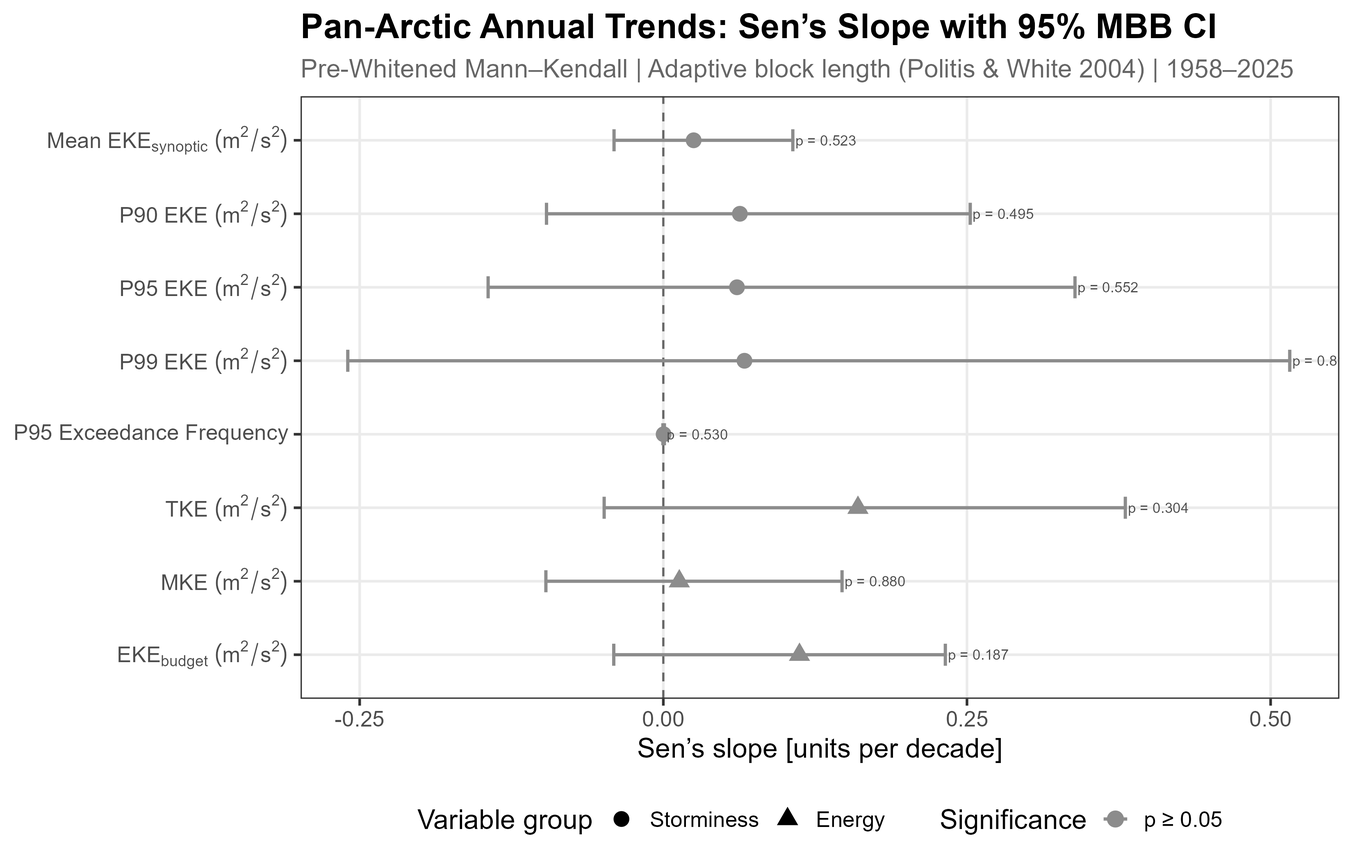
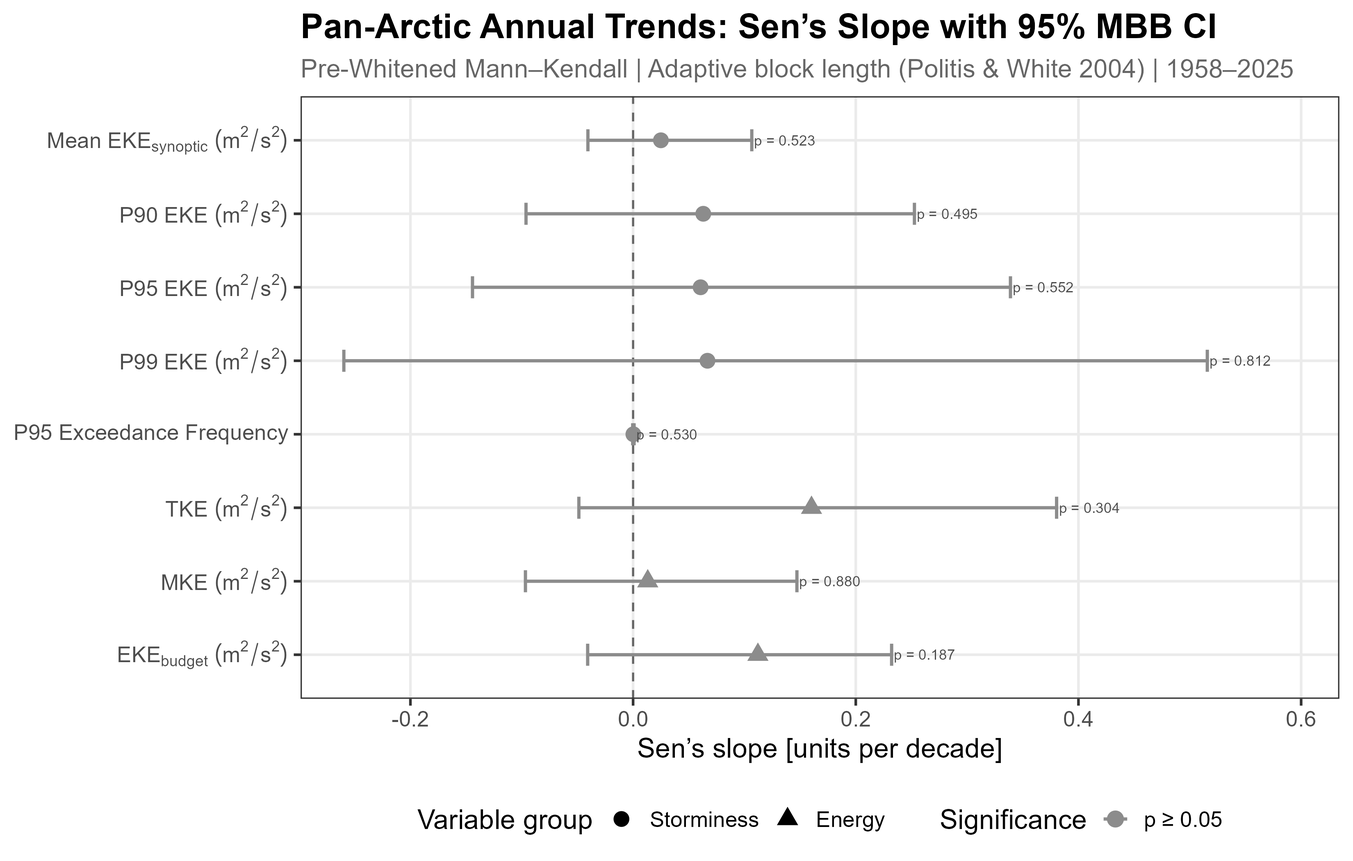
forest plot corrections

diff --git a/Storminess_analysis_full_framework.html b/Storminess_analysis_full_framework.html
@@ -4273,35 +4273,36 @@ Significant trends (α = 0.05):  storminess 0/5  |  energy 0/3</code></pre>
 <span id="cb438-100"><a href="#cb438-100" aria-hidden="true" tabindex="-1"></a>    <span class="at">values =</span> <span class="fu">c</span>(<span class="st">"Storminess"</span> <span class="ot">=</span> <span class="dv">16</span>, <span class="st">"Energy"</span> <span class="ot">=</span> <span class="dv">17</span>),</span>
 <span id="cb438-101"><a href="#cb438-101" aria-hidden="true" tabindex="-1"></a>    <span class="at">name   =</span> <span class="st">"Variable group"</span></span>
 <span id="cb438-102"><a href="#cb438-102" aria-hidden="true" tabindex="-1"></a>  ) <span class="sc">+</span></span>
-<span id="cb438-103"><a href="#cb438-103" aria-hidden="true" tabindex="-1"></a>  <span class="fu">labs</span>(</span>
-<span id="cb438-104"><a href="#cb438-104" aria-hidden="true" tabindex="-1"></a>    <span class="at">title    =</span> <span class="st">"Pan-Arctic Annual Trends: Sen\u2019s Slope with 95% MBB CI"</span>,</span>
-<span id="cb438-105"><a href="#cb438-105" aria-hidden="true" tabindex="-1"></a>    <span class="at">subtitle =</span> <span class="fu">glue</span>(</span>
-<span id="cb438-106"><a href="#cb438-106" aria-hidden="true" tabindex="-1"></a>      <span class="st">"Pre-Whitened Mann\u2013Kendall | Adaptive block length "</span>,</span>
-<span id="cb438-107"><a href="#cb438-107" aria-hidden="true" tabindex="-1"></a>      <span class="st">"(Politis &amp; White 2004) | {min(annual_df$year)}\u2013{max(annual_df$year)}"</span></span>
-<span id="cb438-108"><a href="#cb438-108" aria-hidden="true" tabindex="-1"></a>    ),</span>
-<span id="cb438-109"><a href="#cb438-109" aria-hidden="true" tabindex="-1"></a>    <span class="at">x =</span> <span class="st">"Sen\u2019s slope [units per decade]"</span>,</span>
-<span id="cb438-110"><a href="#cb438-110" aria-hidden="true" tabindex="-1"></a>    <span class="at">y =</span> <span class="cn">NULL</span></span>
-<span id="cb438-111"><a href="#cb438-111" aria-hidden="true" tabindex="-1"></a>  ) <span class="sc">+</span></span>
-<span id="cb438-112"><a href="#cb438-112" aria-hidden="true" tabindex="-1"></a>  <span class="fu">theme_bw</span>(<span class="at">base_size =</span> BASE_SIZE) <span class="sc">+</span></span>
-<span id="cb438-113"><a href="#cb438-113" aria-hidden="true" tabindex="-1"></a>  <span class="fu">theme</span>(</span>
-<span id="cb438-114"><a href="#cb438-114" aria-hidden="true" tabindex="-1"></a>    <span class="at">plot.title       =</span> <span class="fu">element_text</span>(<span class="at">face =</span> <span class="st">"bold"</span>, <span class="at">size =</span> TITLE_SIZE),</span>
-<span id="cb438-115"><a href="#cb438-115" aria-hidden="true" tabindex="-1"></a>    <span class="at">plot.subtitle    =</span> <span class="fu">element_text</span>(<span class="at">size =</span> SUBTITLE_SIZE, <span class="at">colour =</span> <span class="st">"grey40"</span>),</span>
-<span id="cb438-116"><a href="#cb438-116" aria-hidden="true" tabindex="-1"></a>    <span class="at">legend.position  =</span> <span class="st">"bottom"</span>,</span>
-<span id="cb438-117"><a href="#cb438-117" aria-hidden="true" tabindex="-1"></a>    <span class="at">panel.grid.minor =</span> <span class="fu">element_blank</span>()</span>
-<span id="cb438-118"><a href="#cb438-118" aria-hidden="true" tabindex="-1"></a>  ) <span class="sc">+</span></span>
-<span id="cb438-119"><a href="#cb438-119" aria-hidden="true" tabindex="-1"></a>  <span class="fu">scale_y_discrete</span>(</span>
-<span id="cb438-120"><a href="#cb438-120" aria-hidden="true" tabindex="-1"></a>    <span class="at">labels =</span> <span class="cf">function</span>(x) <span class="fu">parse</span>(<span class="at">text =</span> x)   <span class="co"># parse plotmath on the fly</span></span>
-<span id="cb438-121"><a href="#cb438-121" aria-hidden="true" tabindex="-1"></a>  )</span>
-<span id="cb438-122"><a href="#cb438-122" aria-hidden="true" tabindex="-1"></a></span>
-<span id="cb438-123"><a href="#cb438-123" aria-hidden="true" tabindex="-1"></a><span class="fu">ggsave</span>(<span class="fu">file.path</span>(FIG_PHASE3, <span class="st">"Fig3.2_Annual_Forest.png"</span>),</span>
-<span id="cb438-124"><a href="#cb438-124" aria-hidden="true" tabindex="-1"></a>       p_forest, <span class="at">width =</span> <span class="dv">11</span>, <span class="at">height =</span> <span class="dv">7</span>, <span class="at">dpi =</span> <span class="dv">300</span>)</span>
-<span id="cb438-125"><a href="#cb438-125" aria-hidden="true" tabindex="-1"></a></span>
+<span id="cb438-103"><a href="#cb438-103" aria-hidden="true" tabindex="-1"></a>  <span class="fu">scale_x_continuous</span>(<span class="at">expand =</span> <span class="fu">expansion</span>(<span class="at">mult =</span> <span class="fu">c</span>(<span class="fl">0.05</span>, <span class="fl">0.15</span>))) <span class="sc">+</span></span>
+<span id="cb438-104"><a href="#cb438-104" aria-hidden="true" tabindex="-1"></a>  <span class="fu">labs</span>(</span>
+<span id="cb438-105"><a href="#cb438-105" aria-hidden="true" tabindex="-1"></a>    <span class="at">title    =</span> <span class="st">"Pan-Arctic Annual Trends: Sen\u2019s Slope with 95% MBB CI"</span>,</span>
+<span id="cb438-106"><a href="#cb438-106" aria-hidden="true" tabindex="-1"></a>    <span class="at">subtitle =</span> <span class="fu">glue</span>(</span>
+<span id="cb438-107"><a href="#cb438-107" aria-hidden="true" tabindex="-1"></a>      <span class="st">"Pre-Whitened Mann\u2013Kendall | Adaptive block length "</span>,</span>
+<span id="cb438-108"><a href="#cb438-108" aria-hidden="true" tabindex="-1"></a>      <span class="st">"(Politis &amp; White 2004) | {min(annual_df$year)}\u2013{max(annual_df$year)}"</span></span>
+<span id="cb438-109"><a href="#cb438-109" aria-hidden="true" tabindex="-1"></a>    ),</span>
+<span id="cb438-110"><a href="#cb438-110" aria-hidden="true" tabindex="-1"></a>    <span class="at">x =</span> <span class="st">"Sen\u2019s slope [units per decade]"</span>,</span>
+<span id="cb438-111"><a href="#cb438-111" aria-hidden="true" tabindex="-1"></a>    <span class="at">y =</span> <span class="cn">NULL</span></span>
+<span id="cb438-112"><a href="#cb438-112" aria-hidden="true" tabindex="-1"></a>  ) <span class="sc">+</span></span>
+<span id="cb438-113"><a href="#cb438-113" aria-hidden="true" tabindex="-1"></a>  <span class="fu">theme_bw</span>(<span class="at">base_size =</span> BASE_SIZE) <span class="sc">+</span></span>
+<span id="cb438-114"><a href="#cb438-114" aria-hidden="true" tabindex="-1"></a>  <span class="fu">theme</span>(</span>
+<span id="cb438-115"><a href="#cb438-115" aria-hidden="true" tabindex="-1"></a>    <span class="at">plot.title       =</span> <span class="fu">element_text</span>(<span class="at">face =</span> <span class="st">"bold"</span>, <span class="at">size =</span> TITLE_SIZE),</span>
+<span id="cb438-116"><a href="#cb438-116" aria-hidden="true" tabindex="-1"></a>    <span class="at">plot.subtitle    =</span> <span class="fu">element_text</span>(<span class="at">size =</span> SUBTITLE_SIZE, <span class="at">colour =</span> <span class="st">"grey40"</span>),</span>
+<span id="cb438-117"><a href="#cb438-117" aria-hidden="true" tabindex="-1"></a>    <span class="at">legend.position  =</span> <span class="st">"bottom"</span>,</span>
+<span id="cb438-118"><a href="#cb438-118" aria-hidden="true" tabindex="-1"></a>    <span class="at">panel.grid.minor =</span> <span class="fu">element_blank</span>()</span>
+<span id="cb438-119"><a href="#cb438-119" aria-hidden="true" tabindex="-1"></a>  ) <span class="sc">+</span></span>
+<span id="cb438-120"><a href="#cb438-120" aria-hidden="true" tabindex="-1"></a>  <span class="fu">scale_y_discrete</span>(</span>
+<span id="cb438-121"><a href="#cb438-121" aria-hidden="true" tabindex="-1"></a>    <span class="at">labels =</span> <span class="cf">function</span>(x) <span class="fu">parse</span>(<span class="at">text =</span> x)   <span class="co"># parse plotmath on the fly</span></span>
+<span id="cb438-122"><a href="#cb438-122" aria-hidden="true" tabindex="-1"></a>  )</span>
+<span id="cb438-123"><a href="#cb438-123" aria-hidden="true" tabindex="-1"></a></span>
+<span id="cb438-124"><a href="#cb438-124" aria-hidden="true" tabindex="-1"></a><span class="fu">ggsave</span>(<span class="fu">file.path</span>(FIG_PHASE3, <span class="st">"Fig3.2_Annual_Forest.png"</span>),</span>
+<span id="cb438-125"><a href="#cb438-125" aria-hidden="true" tabindex="-1"></a>       p_forest, <span class="at">width =</span> <span class="dv">11</span>, <span class="at">height =</span> <span class="dv">7</span>, <span class="at">dpi =</span> <span class="dv">300</span>)</span>
 <span id="cb438-126"><a href="#cb438-126" aria-hidden="true" tabindex="-1"></a></span>
-<span id="cb438-127"><a href="#cb438-127" aria-hidden="true" tabindex="-1"></a><span class="co"># ============================================================================</span></span>
-<span id="cb438-128"><a href="#cb438-128" aria-hidden="true" tabindex="-1"></a><span class="co"># STEP 5: SAVE RESULTS</span></span>
-<span id="cb438-129"><a href="#cb438-129" aria-hidden="true" tabindex="-1"></a><span class="co"># ============================================================================</span></span>
-<span id="cb438-130"><a href="#cb438-130" aria-hidden="true" tabindex="-1"></a><span class="fu">save</span>(results_annual, annual_df,</span>
-<span id="cb438-131"><a href="#cb438-131" aria-hidden="true" tabindex="-1"></a>     <span class="at">file =</span> <span class="fu">file.path</span>(OUTPUT_DATA_DIR, <span class="st">"Phase3_1_Annual_Results.RData"</span>))</span></code><button title="Copy to Clipboard" class="code-copy-button"><i class="bi"></i></button></pre></div>
+<span id="cb438-127"><a href="#cb438-127" aria-hidden="true" tabindex="-1"></a></span>
+<span id="cb438-128"><a href="#cb438-128" aria-hidden="true" tabindex="-1"></a><span class="co"># ============================================================================</span></span>
+<span id="cb438-129"><a href="#cb438-129" aria-hidden="true" tabindex="-1"></a><span class="co"># STEP 5: SAVE RESULTS</span></span>
+<span id="cb438-130"><a href="#cb438-130" aria-hidden="true" tabindex="-1"></a><span class="co"># ============================================================================</span></span>
+<span id="cb438-131"><a href="#cb438-131" aria-hidden="true" tabindex="-1"></a><span class="fu">save</span>(results_annual, annual_df,</span>
+<span id="cb438-132"><a href="#cb438-132" aria-hidden="true" tabindex="-1"></a>     <span class="at">file =</span> <span class="fu">file.path</span>(OUTPUT_DATA_DIR, <span class="st">"Phase3_1_Annual_Results.RData"</span>))</span></code><button title="Copy to Clipboard" class="code-copy-button"><i class="bi"></i></button></pre></div>
 </div>
 </section>
 <section id="seasonal-decomposition-of-pan-arctic-trends" class="level2">
@@ -4823,7 +4824,7 @@ Significant trends by season (α = 0.05 ):</code></pre>
 <span id="cb479-2"><a href="#cb479-2" aria-hidden="true" tabindex="-1"></a>  <span class="fu">mutate</span>(</span>
 <span id="cb479-3"><a href="#cb479-3" aria-hidden="true" tabindex="-1"></a>    <span class="at">label_fig =</span> <span class="fu">factor</span>(</span>
 <span id="cb479-4"><a href="#cb479-4" aria-hidden="true" tabindex="-1"></a>      <span class="fu">unname</span>(VAR_LABELS[variable]),</span>
-<span id="cb479-5"><a href="#cb479-5" aria-hidden="true" tabindex="-1"></a>      <span class="at">levels =</span> <span class="fu">rev</span>(<span class="fu">unname</span>(VAR_LABELS[ALL_VARS]))   <span class="co"># reverse for coord readability</span></span>
+<span id="cb479-5"><a href="#cb479-5" aria-hidden="true" tabindex="-1"></a>      <span class="at">levels =</span> <span class="fu">rev</span>(<span class="fu">unname</span>(VAR_LABELS[ALL_VARS]))</span>
 <span id="cb479-6"><a href="#cb479-6" aria-hidden="true" tabindex="-1"></a>    ),</span>
 <span id="cb479-7"><a href="#cb479-7" aria-hidden="true" tabindex="-1"></a>    <span class="at">group  =</span> <span class="fu">factor</span>(group, <span class="at">levels =</span> <span class="fu">c</span>(<span class="st">"Storminess"</span>, <span class="st">"Energy"</span>)),</span>
 <span id="cb479-8"><a href="#cb479-8" aria-hidden="true" tabindex="-1"></a>    <span class="at">season =</span> <span class="fu">factor</span>(season, <span class="at">levels =</span> SEASONS,</span>
@@ -4833,7 +4834,7 @@ Significant trends by season (α = 0.05 ):</code></pre>
 <span id="cb479-12"><a href="#cb479-12" aria-hidden="true" tabindex="-1"></a>p_forest_seas <span class="ot">&lt;-</span> <span class="fu">ggplot</span>(</span>
 <span id="cb479-13"><a href="#cb479-13" aria-hidden="true" tabindex="-1"></a>  forest_seas,</span>
 <span id="cb479-14"><a href="#cb479-14" aria-hidden="true" tabindex="-1"></a>  <span class="fu">aes</span>(<span class="at">x =</span> slope_dec, <span class="at">y =</span> label_fig,</span>
-<span id="cb479-15"><a href="#cb479-15" aria-hidden="true" tabindex="-1"></a>      <span class="at">colour =</span> significant, <span class="at">shape =</span> group)</span>
+<span id="cb479-15"><a href="#cb479-15" aria-hidden="true" tabindex="-1"></a>      <span class="at">colour =</span> significant, <span class="at">shape =</span> group) <span class="co"># colour correctly maps to TRUE/FALSE</span></span>
 <span id="cb479-16"><a href="#cb479-16" aria-hidden="true" tabindex="-1"></a>) <span class="sc">+</span></span>
 <span id="cb479-17"><a href="#cb479-17" aria-hidden="true" tabindex="-1"></a>  <span class="fu">geom_vline</span>(<span class="at">xintercept =</span> <span class="dv">0</span>, <span class="at">linetype =</span> <span class="st">"dashed"</span>,</span>
 <span id="cb479-18"><a href="#cb479-18" aria-hidden="true" tabindex="-1"></a>             <span class="at">colour =</span> <span class="st">"grey40"</span>, <span class="at">linewidth =</span> <span class="fl">0.6</span>) <span class="sc">+</span></span>
@@ -4847,36 +4848,38 @@ Significant trends by season (α = 0.05 ):</code></pre>
 <span id="cb479-26"><a href="#cb479-26" aria-hidden="true" tabindex="-1"></a>  ) <span class="sc">+</span></span>
 <span id="cb479-27"><a href="#cb479-27" aria-hidden="true" tabindex="-1"></a>  <span class="fu">facet_wrap</span>(<span class="sc">~</span> season, <span class="at">ncol =</span> <span class="dv">2</span>, <span class="at">scales =</span> <span class="st">"free_x"</span>) <span class="sc">+</span></span>
 <span id="cb479-28"><a href="#cb479-28" aria-hidden="true" tabindex="-1"></a>  <span class="fu">scale_colour_manual</span>(</span>
-<span id="cb479-29"><a href="#cb479-29" aria-hidden="true" tabindex="-1"></a>    <span class="at">values =</span> SEASON_COLORS,                  <span class="co"># keys "DJF"/"MAM"/"JJA"/"SON" now match</span></span>
-<span id="cb479-30"><a href="#cb479-30" aria-hidden="true" tabindex="-1"></a>    <span class="at">labels =</span> <span class="fu">unname</span>(SEASON_NAMES),           <span class="co"># legend shows "Winter (DJF)" etc.</span></span>
-<span id="cb479-31"><a href="#cb479-31" aria-hidden="true" tabindex="-1"></a>    <span class="at">name   =</span> <span class="st">"Season"</span></span>
-<span id="cb479-32"><a href="#cb479-32" aria-hidden="true" tabindex="-1"></a>  ) <span class="sc">+</span></span>
-<span id="cb479-33"><a href="#cb479-33" aria-hidden="true" tabindex="-1"></a>  <span class="fu">scale_shape_manual</span>(</span>
-<span id="cb479-34"><a href="#cb479-34" aria-hidden="true" tabindex="-1"></a>    <span class="at">values =</span> <span class="fu">c</span>(<span class="st">"Storminess"</span> <span class="ot">=</span> <span class="dv">16</span>, <span class="st">"Energy"</span> <span class="ot">=</span> <span class="dv">17</span>),</span>
-<span id="cb479-35"><a href="#cb479-35" aria-hidden="true" tabindex="-1"></a>    <span class="at">name   =</span> <span class="st">"Variable group"</span></span>
-<span id="cb479-36"><a href="#cb479-36" aria-hidden="true" tabindex="-1"></a>  ) <span class="sc">+</span></span>
-<span id="cb479-37"><a href="#cb479-37" aria-hidden="true" tabindex="-1"></a>  <span class="fu">scale_y_discrete</span>(<span class="at">labels =</span> <span class="cf">function</span>(x) <span class="fu">parse</span>(<span class="at">text =</span> x)) <span class="sc">+</span></span>
-<span id="cb479-38"><a href="#cb479-38" aria-hidden="true" tabindex="-1"></a>  <span class="fu">labs</span>(</span>
-<span id="cb479-39"><a href="#cb479-39" aria-hidden="true" tabindex="-1"></a>    <span class="at">title    =</span> <span class="st">"Pan-Arctic Seasonal Trends: Sen\u2019s Slope with 95% MBB CI"</span>,</span>
-<span id="cb479-40"><a href="#cb479-40" aria-hidden="true" tabindex="-1"></a>    <span class="at">subtitle =</span> <span class="fu">glue</span>(</span>
-<span id="cb479-41"><a href="#cb479-41" aria-hidden="true" tabindex="-1"></a>      <span class="st">"Pre-Whitened Mann\u2013Kendall | Adaptive block length "</span>,</span>
-<span id="cb479-42"><a href="#cb479-42" aria-hidden="true" tabindex="-1"></a>      <span class="st">"(Politis &amp; White 2004) | 1958\u20132025 | N = 68 per season"</span></span>
-<span id="cb479-43"><a href="#cb479-43" aria-hidden="true" tabindex="-1"></a>    ),</span>
-<span id="cb479-44"><a href="#cb479-44" aria-hidden="true" tabindex="-1"></a>    <span class="at">x =</span> <span class="st">"Sen\u2019s slope [units per decade]"</span>,</span>
-<span id="cb479-45"><a href="#cb479-45" aria-hidden="true" tabindex="-1"></a>    <span class="at">y =</span> <span class="cn">NULL</span></span>
-<span id="cb479-46"><a href="#cb479-46" aria-hidden="true" tabindex="-1"></a>  ) <span class="sc">+</span></span>
-<span id="cb479-47"><a href="#cb479-47" aria-hidden="true" tabindex="-1"></a>  <span class="fu">theme_bw</span>(<span class="at">base_size =</span> BASE_SIZE) <span class="sc">+</span></span>
-<span id="cb479-48"><a href="#cb479-48" aria-hidden="true" tabindex="-1"></a>  <span class="fu">theme</span>(</span>
-<span id="cb479-49"><a href="#cb479-49" aria-hidden="true" tabindex="-1"></a>    <span class="at">plot.title       =</span> <span class="fu">element_text</span>(<span class="at">face =</span> <span class="st">"bold"</span>, <span class="at">size =</span> TITLE_SIZE),</span>
-<span id="cb479-50"><a href="#cb479-50" aria-hidden="true" tabindex="-1"></a>    <span class="at">plot.subtitle    =</span> <span class="fu">element_text</span>(<span class="at">size =</span> SUBTITLE_SIZE, <span class="at">colour =</span> <span class="st">"grey40"</span>),</span>
-<span id="cb479-51"><a href="#cb479-51" aria-hidden="true" tabindex="-1"></a>    <span class="at">legend.position  =</span> <span class="st">"bottom"</span>,</span>
-<span id="cb479-52"><a href="#cb479-52" aria-hidden="true" tabindex="-1"></a>    <span class="at">strip.text       =</span> <span class="fu">element_text</span>(<span class="at">face =</span> <span class="st">"bold"</span>),</span>
-<span id="cb479-53"><a href="#cb479-53" aria-hidden="true" tabindex="-1"></a>    <span class="at">panel.grid.minor =</span> <span class="fu">element_blank</span>()</span>
-<span id="cb479-54"><a href="#cb479-54" aria-hidden="true" tabindex="-1"></a>  )</span>
-<span id="cb479-55"><a href="#cb479-55" aria-hidden="true" tabindex="-1"></a></span>
-<span id="cb479-56"><a href="#cb479-56" aria-hidden="true" tabindex="-1"></a><span class="fu">ggsave</span>(<span class="fu">file.path</span>(FIG_PHASE3, <span class="st">"Fig3.3_Seasonal_Slopes.png"</span>),</span>
-<span id="cb479-57"><a href="#cb479-57" aria-hidden="true" tabindex="-1"></a>       p_forest_seas, <span class="at">width =</span> <span class="dv">13</span>, <span class="at">height =</span> <span class="dv">9</span>, <span class="at">dpi =</span> <span class="dv">300</span>)</span>
-<span id="cb479-58"><a href="#cb479-58" aria-hidden="true" tabindex="-1"></a><span class="fu">cat</span>(<span class="st">"  ✓ Saved: Fig3.3_Seasonal_Slopes.png</span><span class="sc">\n</span><span class="st">"</span>)</span></code><button title="Copy to Clipboard" class="code-copy-button"><i class="bi"></i></button></pre></div>
+<span id="cb479-29"><a href="#cb479-29" aria-hidden="true" tabindex="-1"></a>    <span class="at">values =</span> <span class="fu">c</span>(<span class="st">"FALSE"</span> <span class="ot">=</span> <span class="st">"grey55"</span>, <span class="st">"TRUE"</span> <span class="ot">=</span> <span class="st">"#D73027"</span>),</span>
+<span id="cb479-30"><a href="#cb479-30" aria-hidden="true" tabindex="-1"></a>    <span class="at">labels =</span> <span class="fu">c</span>(<span class="st">"FALSE"</span> <span class="ot">=</span> <span class="fu">glue</span>(<span class="st">"p \u2265 {ALPHA}"</span>),</span>
+<span id="cb479-31"><a href="#cb479-31" aria-hidden="true" tabindex="-1"></a>               <span class="st">"TRUE"</span>  <span class="ot">=</span> <span class="fu">glue</span>(<span class="st">"p &lt; {ALPHA}"</span>)),</span>
+<span id="cb479-32"><a href="#cb479-32" aria-hidden="true" tabindex="-1"></a>    <span class="at">name   =</span> <span class="st">"Significance"</span></span>
+<span id="cb479-33"><a href="#cb479-33" aria-hidden="true" tabindex="-1"></a>  ) <span class="sc">+</span></span>
+<span id="cb479-34"><a href="#cb479-34" aria-hidden="true" tabindex="-1"></a>  <span class="fu">scale_shape_manual</span>(</span>
+<span id="cb479-35"><a href="#cb479-35" aria-hidden="true" tabindex="-1"></a>    <span class="at">values =</span> <span class="fu">c</span>(<span class="st">"Storminess"</span> <span class="ot">=</span> <span class="dv">16</span>, <span class="st">"Energy"</span> <span class="ot">=</span> <span class="dv">17</span>),</span>
+<span id="cb479-36"><a href="#cb479-36" aria-hidden="true" tabindex="-1"></a>    <span class="at">name   =</span> <span class="st">"Variable group"</span></span>
+<span id="cb479-37"><a href="#cb479-37" aria-hidden="true" tabindex="-1"></a>  ) <span class="sc">+</span></span>
+<span id="cb479-38"><a href="#cb479-38" aria-hidden="true" tabindex="-1"></a>  <span class="fu">scale_x_continuous</span>(<span class="at">expand =</span> <span class="fu">expansion</span>(<span class="at">mult =</span> <span class="fu">c</span>(<span class="fl">0.05</span>, <span class="fl">0.15</span>))) <span class="sc">+</span></span>
+<span id="cb479-39"><a href="#cb479-39" aria-hidden="true" tabindex="-1"></a>  <span class="fu">scale_y_discrete</span>(<span class="at">labels =</span> <span class="cf">function</span>(x) <span class="fu">parse</span>(<span class="at">text =</span> x)) <span class="sc">+</span></span>
+<span id="cb479-40"><a href="#cb479-40" aria-hidden="true" tabindex="-1"></a>  <span class="fu">labs</span>(</span>
+<span id="cb479-41"><a href="#cb479-41" aria-hidden="true" tabindex="-1"></a>    <span class="at">title    =</span> <span class="st">"Pan-Arctic Seasonal Trends: Sen\u2019s Slope with 95% MBB CI"</span>,</span>
+<span id="cb479-42"><a href="#cb479-42" aria-hidden="true" tabindex="-1"></a>    <span class="at">subtitle =</span> <span class="fu">glue</span>(</span>
+<span id="cb479-43"><a href="#cb479-43" aria-hidden="true" tabindex="-1"></a>      <span class="st">"Pre-Whitened Mann\u2013Kendall | Adaptive block length "</span>,</span>
+<span id="cb479-44"><a href="#cb479-44" aria-hidden="true" tabindex="-1"></a>      <span class="st">"(Politis &amp; White 2004) | 1958\u20132025 | N = 68 per season"</span></span>
+<span id="cb479-45"><a href="#cb479-45" aria-hidden="true" tabindex="-1"></a>    ),</span>
+<span id="cb479-46"><a href="#cb479-46" aria-hidden="true" tabindex="-1"></a>    <span class="at">x =</span> <span class="st">"Sen\u2019s slope [units per decade]"</span>,</span>
+<span id="cb479-47"><a href="#cb479-47" aria-hidden="true" tabindex="-1"></a>    <span class="at">y =</span> <span class="cn">NULL</span></span>
+<span id="cb479-48"><a href="#cb479-48" aria-hidden="true" tabindex="-1"></a>  ) <span class="sc">+</span></span>
+<span id="cb479-49"><a href="#cb479-49" aria-hidden="true" tabindex="-1"></a>  <span class="fu">theme_bw</span>(<span class="at">base_size =</span> BASE_SIZE) <span class="sc">+</span></span>
+<span id="cb479-50"><a href="#cb479-50" aria-hidden="true" tabindex="-1"></a>  <span class="fu">theme</span>(</span>
+<span id="cb479-51"><a href="#cb479-51" aria-hidden="true" tabindex="-1"></a>    <span class="at">plot.title       =</span> <span class="fu">element_text</span>(<span class="at">face =</span> <span class="st">"bold"</span>, <span class="at">size =</span> TITLE_SIZE),</span>
+<span id="cb479-52"><a href="#cb479-52" aria-hidden="true" tabindex="-1"></a>    <span class="at">plot.subtitle    =</span> <span class="fu">element_text</span>(<span class="at">size =</span> SUBTITLE_SIZE, <span class="at">colour =</span> <span class="st">"grey40"</span>),</span>
+<span id="cb479-53"><a href="#cb479-53" aria-hidden="true" tabindex="-1"></a>    <span class="at">legend.position  =</span> <span class="st">"bottom"</span>,</span>
+<span id="cb479-54"><a href="#cb479-54" aria-hidden="true" tabindex="-1"></a>    <span class="at">strip.text       =</span> <span class="fu">element_text</span>(<span class="at">face =</span> <span class="st">"bold"</span>),</span>
+<span id="cb479-55"><a href="#cb479-55" aria-hidden="true" tabindex="-1"></a>    <span class="at">panel.grid.minor =</span> <span class="fu">element_blank</span>()</span>
+<span id="cb479-56"><a href="#cb479-56" aria-hidden="true" tabindex="-1"></a>  )</span>
+<span id="cb479-57"><a href="#cb479-57" aria-hidden="true" tabindex="-1"></a></span>
+<span id="cb479-58"><a href="#cb479-58" aria-hidden="true" tabindex="-1"></a><span class="fu">ggsave</span>(<span class="fu">file.path</span>(FIG_PHASE3, <span class="st">"Fig3.3_Seasonal_Slopes.png"</span>),</span>
+<span id="cb479-59"><a href="#cb479-59" aria-hidden="true" tabindex="-1"></a>       p_forest_seas, <span class="at">width =</span> <span class="dv">13</span>, <span class="at">height =</span> <span class="dv">9</span>, <span class="at">dpi =</span> <span class="dv">300</span>)</span>
+<span id="cb479-60"><a href="#cb479-60" aria-hidden="true" tabindex="-1"></a><span class="fu">cat</span>(<span class="st">"  ✓ Saved: Fig3.3_Seasonal_Slopes.png</span><span class="sc">\n</span><span class="st">"</span>)</span></code><button title="Copy to Clipboard" class="code-copy-button"><i class="bi"></i></button></pre></div>
 <div class="cell-output cell-output-stdout">
 <pre><code>  ✓ Saved: Fig3.3_Seasonal_Slopes.png</code></pre>
 </div>
@@ -5153,9 +5156,9 @@ Significant trends by season (α = 0.05 ):</code></pre>
 <span id="cb487-161"><a href="#cb487-161" aria-hidden="true" tabindex="-1"></a>  }</span>
 <span id="cb487-162"><a href="#cb487-162" aria-hidden="true" tabindex="-1"></a>}</span></code><button title="Copy to Clipboard" class="code-copy-button"><i class="bi"></i></button></pre></div>
 <div class="cell-output cell-output-stdout">
-<pre><code>[21:29:28 | +0.0 min] CACHE HIT: Loading precomputed spatial results from disk.
-[21:29:29 | +0.0 min]   Loaded 5 variable(s): eke_synoptic_mean, eke_p90, eke_p95, eke_p99, exceed_p95_freq
-[21:29:29 | +0.0 min]   All requested variables present. Skipping to PART B (figures).</code></pre>
+<pre><code>[14:22:34 | +0.0 min] CACHE HIT: Loading precomputed spatial results from disk.
+[14:22:34 | +0.0 min]   Loaded 5 variable(s): eke_synoptic_mean, eke_p90, eke_p95, eke_p99, exceed_p95_freq
+[14:22:34 | +0.0 min]   All requested variables present. Skipping to PART B (figures).</code></pre>
 </div>
 <div class="sourceCode cell-code" id="cb489"><pre class="sourceCode r code-with-copy"><code class="sourceCode r"><span id="cb489-1"><a href="#cb489-1" aria-hidden="true" tabindex="-1"></a><span class="cf">if</span> (<span class="sc">!</span><span class="fu">file.exists</span>(RESULTS_FILE) <span class="sc">||</span> FORCE_RECOMPUTE) {</span>
 <span id="cb489-2"><a href="#cb489-2" aria-hidden="true" tabindex="-1"></a></span>
@@ -5485,7 +5488,7 @@ Significant trends by season (α = 0.05 ):</code></pre>
 <span id="cb489-326"><a href="#cb489-326" aria-hidden="true" tabindex="-1"></a></span>
 <span id="cb489-327"><a href="#cb489-327" aria-hidden="true" tabindex="-1"></a><span class="fu">progress_msg</span>(<span class="st">"PHASE 3.4 PART B: GENERATING FIGURES"</span>)</span></code><button title="Copy to Clipboard" class="code-copy-button"><i class="bi"></i></button></pre></div>
 <div class="cell-output cell-output-stdout">
-<pre><code>[21:29:29 | +0.0 min] PHASE 3.4 PART B: GENERATING FIGURES</code></pre>
+<pre><code>[14:22:34 | +0.0 min] PHASE 3.4 PART B: GENERATING FIGURES</code></pre>
 </div>
 <div class="sourceCode cell-code" id="cb491"><pre class="sourceCode r code-with-copy"><code class="sourceCode r"><span id="cb491-1"><a href="#cb491-1" aria-hidden="true" tabindex="-1"></a><span class="fu">cat</span>(<span class="fu">rep</span>(<span class="st">"="</span>, <span class="dv">70</span>), <span class="st">"</span><span class="sc">\n\n</span><span class="st">"</span>)</span></code><button title="Copy to Clipboard" class="code-copy-button"><i class="bi"></i></button></pre></div>
 <div class="cell-output cell-output-stdout">
@@ -5541,7 +5544,7 @@ Significant trends by season (α = 0.05 ):</code></pre>
 <div class="sourceCode cell-code" id="cb504"><pre class="sourceCode r code-with-copy"><code class="sourceCode r"><span id="cb504-1"><a href="#cb504-1" aria-hidden="true" tabindex="-1"></a><span class="co"># ── B1: Cartographic setup ─────────────────────────────────────────────────</span></span>
 <span id="cb504-2"><a href="#cb504-2" aria-hidden="true" tabindex="-1"></a><span class="fu">progress_msg</span>(<span class="st">"B1: Setting up cartographic elements..."</span>)</span></code><button title="Copy to Clipboard" class="code-copy-button"><i class="bi"></i></button></pre></div>
 <div class="cell-output cell-output-stdout">
-<pre><code>[21:29:30 | +0.0 min] B1: Setting up cartographic elements...</code></pre>
+<pre><code>[14:22:35 | +0.0 min] B1: Setting up cartographic elements...</code></pre>
 </div>
 <div class="sourceCode cell-code" id="cb506"><pre class="sourceCode r code-with-copy"><code class="sourceCode r"><span id="cb506-1"><a href="#cb506-1" aria-hidden="true" tabindex="-1"></a>arctic_crs  <span class="ot">&lt;-</span> <span class="st">"+proj=laea +lat_0=90 +lon_0=0"</span></span>
 <span id="cb506-2"><a href="#cb506-2" aria-hidden="true" tabindex="-1"></a>view_radius <span class="ot">&lt;-</span> <span class="dv">3330000</span>   <span class="co"># clips at ~60 N data boundary</span></span>
@@ -5584,7 +5587,7 @@ Significant trends by season (α = 0.05 ):</code></pre>
 <span id="cb506-39"><a href="#cb506-39" aria-hidden="true" tabindex="-1"></a></span>
 <span id="cb506-40"><a href="#cb506-40" aria-hidden="true" tabindex="-1"></a><span class="fu">progress_msg</span>(<span class="st">"  Cartographic elements ready."</span>)</span></code><button title="Copy to Clipboard" class="code-copy-button"><i class="bi"></i></button></pre></div>
 <div class="cell-output cell-output-stdout">
-<pre><code>[21:29:30 | +0.0 min]   Cartographic elements ready.</code></pre>
+<pre><code>[14:22:35 | +0.0 min]   Cartographic elements ready.</code></pre>
 </div>
 <div class="sourceCode cell-code" id="cb508"><pre class="sourceCode r code-with-copy"><code class="sourceCode r"><span id="cb508-1"><a href="#cb508-1" aria-hidden="true" tabindex="-1"></a><span class="co"># ── B2: Plotting helpers ───────────────────────────────────────────────────</span></span>
 <span id="cb508-2"><a href="#cb508-2" aria-hidden="true" tabindex="-1"></a>make_stars_polar <span class="ot">&lt;-</span> <span class="cf">function</span>(mat, <span class="at">varname =</span> <span class="st">"value"</span>) {</span>
@@ -5861,49 +5864,49 @@ Significant trends by season (α = 0.05 ):</code></pre>
 <div class="cell-output cell-output-stdout">
 <pre><code>
  - - - - - - - - - - - - - - - - - - - - - - - - - - - - - - - - - - - - - - - - - - - - - - - - - - 
-[21:29:30 | +0.0 min]   Plotting: eke_synoptic_mean</code></pre>
+[14:22:35 | +0.0 min]   Plotting: eke_synoptic_mean</code></pre>
 </div>
 <div class="cell-output cell-output-stdout">
-<pre><code>[21:29:40 | +0.2 min]     Saved: Fig3.5a_Annual_Trend_Map_EKE_synoptic.png</code></pre>
+<pre><code>[14:22:40 | +0.1 min]     Saved: Fig3.5a_Annual_Trend_Map_EKE_synoptic.png</code></pre>
 </div>
 <div class="cell-output cell-output-stdout">
-<pre><code>[21:30:18 | +0.8 min]     Saved: Fig3.5b_Seasonal_Trend_Maps_EKE_synoptic.png
+<pre><code>[14:22:57 | +0.4 min]     Saved: Fig3.5b_Seasonal_Trend_Maps_EKE_synoptic.png
 
  - - - - - - - - - - - - - - - - - - - - - - - - - - - - - - - - - - - - - - - - - - - - - - - - - - 
-[21:30:18 | +0.8 min]   Plotting: eke_p90</code></pre>
+[14:22:57 | +0.4 min]   Plotting: eke_p90</code></pre>
 </div>
 <div class="cell-output cell-output-stdout">
-<pre><code>[21:30:26 | +1.0 min]     Saved: Fig3.6a_Annual_Trend_Map_P90.png</code></pre>
+<pre><code>[14:23:02 | +0.5 min]     Saved: Fig3.6a_Annual_Trend_Map_P90.png</code></pre>
 </div>
 <div class="cell-output cell-output-stdout">
-<pre><code>[21:31:00 | +1.5 min]     Saved: Fig3.6b_Seasonal_Trend_Maps_P90.png
+<pre><code>[14:23:20 | +0.8 min]     Saved: Fig3.6b_Seasonal_Trend_Maps_P90.png
 
  - - - - - - - - - - - - - - - - - - - - - - - - - - - - - - - - - - - - - - - - - - - - - - - - - - 
-[21:31:00 | +1.5 min]   Plotting: eke_p95</code></pre>
+[14:23:20 | +0.8 min]   Plotting: eke_p95</code></pre>
 </div>
 <div class="cell-output cell-output-stdout">
-<pre><code>[21:31:08 | +1.7 min]     Saved: Fig3.7a_Annual_Trend_Map_P95.png</code></pre>
+<pre><code>[14:23:25 | +0.9 min]     Saved: Fig3.7a_Annual_Trend_Map_P95.png</code></pre>
 </div>
 <div class="cell-output cell-output-stdout">
-<pre><code>[21:31:42 | +2.2 min]     Saved: Fig3.7b_Seasonal_Trend_Maps_P95.png
+<pre><code>[14:23:42 | +1.1 min]     Saved: Fig3.7b_Seasonal_Trend_Maps_P95.png
 
  - - - - - - - - - - - - - - - - - - - - - - - - - - - - - - - - - - - - - - - - - - - - - - - - - - 
-[21:31:43 | +2.2 min]   Plotting: eke_p99</code></pre>
+[14:23:42 | +1.1 min]   Plotting: eke_p99</code></pre>
 </div>
 <div class="cell-output cell-output-stdout">
-<pre><code>[21:31:52 | +2.4 min]     Saved: Fig3.8a_Annual_Trend_Map_P99.png</code></pre>
+<pre><code>[14:23:46 | +1.2 min]     Saved: Fig3.8a_Annual_Trend_Map_P99.png</code></pre>
 </div>
 <div class="cell-output cell-output-stdout">
-<pre><code>[21:32:26 | +3.0 min]     Saved: Fig3.8b_Seasonal_Trend_Maps_P99.png
+<pre><code>[14:24:00 | +1.4 min]     Saved: Fig3.8b_Seasonal_Trend_Maps_P99.png
 
  - - - - - - - - - - - - - - - - - - - - - - - - - - - - - - - - - - - - - - - - - - - - - - - - - - 
-[21:32:27 | +3.0 min]   Plotting: exceed_p95_freq</code></pre>
+[14:24:00 | +1.4 min]   Plotting: exceed_p95_freq</code></pre>
 </div>
 <div class="cell-output cell-output-stdout">
-<pre><code>[21:32:37 | +3.1 min]     Saved: Fig3.9a_Annual_Trend_Map_ExceedFreq.png</code></pre>
+<pre><code>[14:24:04 | +1.5 min]     Saved: Fig3.9a_Annual_Trend_Map_ExceedFreq.png</code></pre>
 </div>
 <div class="cell-output cell-output-stdout">
-<pre><code>[21:33:09 | +3.7 min]     Saved: Fig3.9b_Seasonal_Trend_Maps_ExceedFreq.png</code></pre>
+<pre><code>[14:24:18 | +1.7 min]     Saved: Fig3.9b_Seasonal_Trend_Maps_ExceedFreq.png</code></pre>
 </div>
 <div class="sourceCode cell-code" id="cb520"><pre class="sourceCode r code-with-copy"><code class="sourceCode r"><span id="cb520-1"><a href="#cb520-1" aria-hidden="true" tabindex="-1"></a><span class="co"># ============================================================================</span></span>
 <span id="cb520-2"><a href="#cb520-2" aria-hidden="true" tabindex="-1"></a><span class="co"># FINAL STATUS</span></span>
@@ -5918,7 +5921,7 @@ Significant trends by season (α = 0.05 ):</code></pre>
 </div>
 <div class="sourceCode cell-code" id="cb522"><pre class="sourceCode r code-with-copy"><code class="sourceCode r"><span id="cb522-1"><a href="#cb522-1" aria-hidden="true" tabindex="-1"></a><span class="fu">progress_msg</span>(<span class="fu">sprintf</span>(<span class="st">"PHASE 3.4 COMPLETE. Total time: %.1f minutes."</span>, elapsed_total))</span></code><button title="Copy to Clipboard" class="code-copy-button"><i class="bi"></i></button></pre></div>
 <div class="cell-output cell-output-stdout">
-<pre><code>[21:33:09 | +3.7 min] PHASE 3.4 COMPLETE. Total time: 3.7 minutes.</code></pre>
+<pre><code>[14:24:18 | +1.7 min] PHASE 3.4 COMPLETE. Total time: 1.7 minutes.</code></pre>
 </div>
 <div class="sourceCode cell-code" id="cb524"><pre class="sourceCode r code-with-copy"><code class="sourceCode r"><span id="cb524-1"><a href="#cb524-1" aria-hidden="true" tabindex="-1"></a><span class="fu">cat</span>(<span class="fu">sprintf</span>(<span class="st">"  Results: %s</span><span class="sc">\n</span><span class="st">"</span>, RESULTS_FILE))</span></code><button title="Copy to Clipboard" class="code-copy-button"><i class="bi"></i></button></pre></div>
 <div class="cell-output cell-output-stdout">
